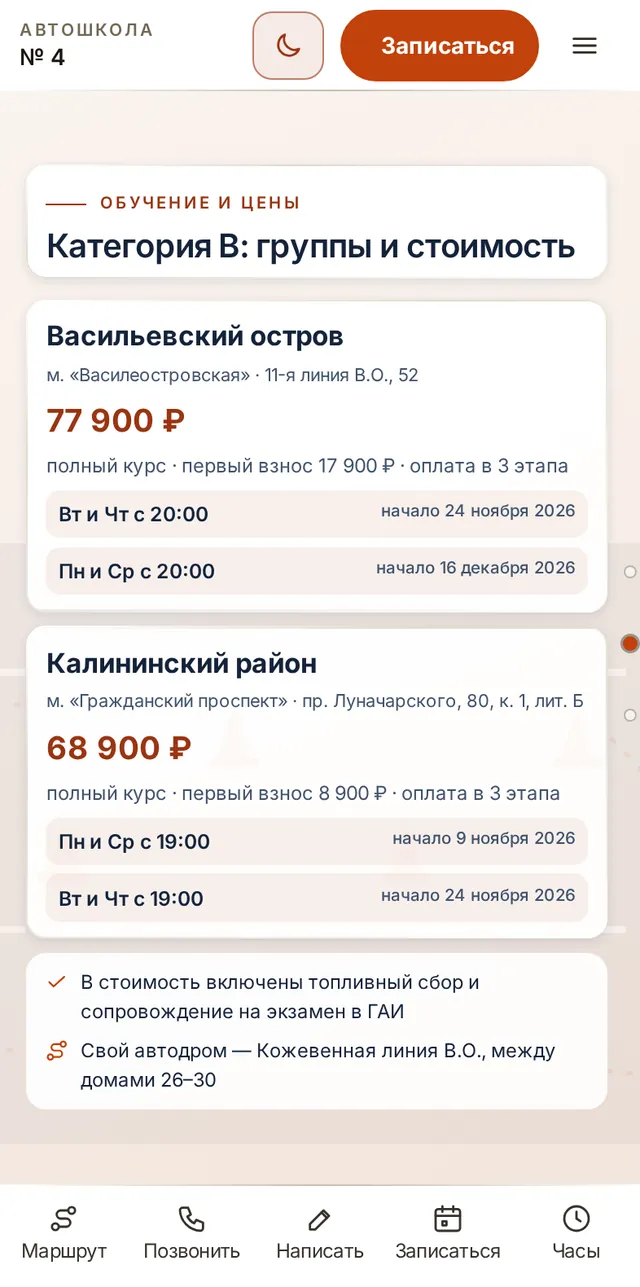
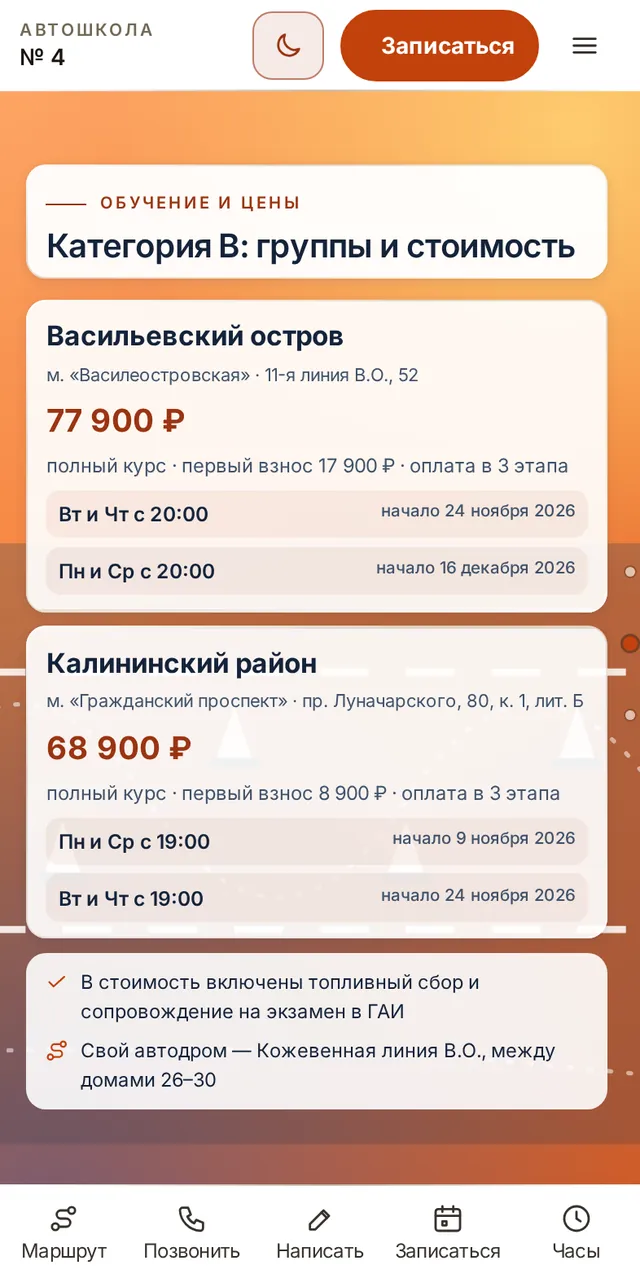
Яркий фон в фирменных цветах; версия для слабовидящих без живых фонов и анимаций; снимки витрины обновлены

Changed region(s): [[0.0, 0.0622, 1.0, 0.9324]]

diff --git a/vitrina/index.html b/vitrina/index.html
@@ -78,9 +78,9 @@ h1{text-wrap:balance;font-size:clamp(30px,3.4vw,48px);line-height:1.08;letter-sp
     </div>
   </div>
   <div class="stage" id="stage" aria-label="Новый сайт на компьютере, ноутбуке и телефоне">
-    <div class="dv mon"><div class="scr"><img src="img/monitor.webp?v=1" alt="" width="1600" height="900"></div><div class="neck"></div><div class="foot"></div></div>
-    <div class="dv lap"><div class="scr"><img src="img/laptop.webp?v=1" alt="" width="1280" height="800"></div><div class="base"></div></div>
-    <div class="dv ph" id="ph"><div class="ss-phone z-phone" data-frame="pro" style="width: 340px; height: 714.953px; padding: 2.38318px; border-radius: 61.1682px; --ps: 0.794392523364486px;"><svg class="ss-phone__bands" width="100%" height="100%" aria-hidden="true"><defs><linearGradient id="ph-band" x1="0.2" y1="0" x2="0.8" y2="1"><stop offset="0" style="stop-color: var(--ss-phone-band-1);"></stop><stop offset="0.22" style="stop-color: var(--ss-phone-band-2);"></stop><stop offset="0.48" style="stop-color: var(--ss-phone-band-3);"></stop><stop offset="0.74" style="stop-color: var(--ss-phone-band-4);"></stop><stop offset="1" style="stop-color: var(--ss-phone-band-5);"></stop></linearGradient><linearGradient id="ph-clay" x1="0" y1="0" x2="0" y2="1"><stop offset="0" style="stop-color: var(--ss-phone-clay-top);"></stop><stop offset="1" style="stop-color: var(--ss-phone-clay-bottom);"></stop></linearGradient></defs><g transform="translate(10.327102803738317 10.327102803738317)" stroke-linejoin="round"><path d="M262.94 0.00L267.09 0.06L270.49 0.24L273.65 0.53L276.65 0.94L279.51 1.47L282.27 2.11L284.93 2.87L287.50 3.74L289.97 4.72L292.36 5.81L294.65 7.02L296.85 8.33L298.96 9.75L300.98 11.27L302.90 12.90L304.72 14.62L306.45 16.45L308.08 18.37L309.60 20.38L311.02 22.49L312.33 24.70L313.53 26.99L314.63 29.37L315.61 31.85L316.48 34.41L317.24 37.07L317.88 39.83L318.41 42.70L318.82 45.69L319.11 48.85L319.29 52.25L319.35 56.40L319.35 637.90L319.29 642.04L319.11 645.45L318.82 648.60L318.41 651.60L317.88 654.47L317.24 657.23L316.48 659.89L315.61 662.45L314.63 664.92L313.53 667.31L312.33 669.60L311.02 671.80L309.60 673.91L308.08 675.93L306.45 677.85L304.72 679.68L302.90 681.40L300.98 683.03L298.96 684.55L296.85 685.97L294.65 687.28L292.36 688.49L289.97 689.58L287.50 690.56L284.93 691.43L282.27 692.19L279.51 692.83L276.65 693.36L273.65 693.77L270.49 694.06L267.09 694.24L262.94 694.30L56.40 694.30L52.25 694.24L48.85 694.06L45.69 693.77L42.70 693.36L39.83 692.83L37.07 692.19L34.41 691.43L31.85 690.56L29.37 689.58L26.99 688.49L24.70 687.28L22.49 685.97L20.38 684.55L18.37 683.03L16.45 681.40L14.62 679.68L12.90 677.85L11.27 675.93L9.75 673.91L8.33 671.80L7.02 669.60L5.81 667.31L4.72 664.92L3.74 662.45L2.87 659.89L2.11 657.23L1.47 654.47L0.94 651.60L0.53 648.60L0.24 645.45L0.06 642.04L0.00 637.90L0.00 56.40L0.06 52.25L0.24 48.85L0.53 45.69L0.94 42.70L1.47 39.83L2.11 37.07L2.87 34.41L3.74 31.85L4.72 29.37L5.81 26.99L7.02 24.70L8.33 22.49L9.75 20.38L11.27 18.37L12.90 16.45L14.62 14.62L16.45 12.90L18.37 11.27L20.38 9.75L22.49 8.33L24.70 7.02L26.99 5.81L29.37 4.72L31.85 3.74L34.41 2.87L37.07 2.11L39.83 1.47L42.70 0.94L45.69 0.53L48.85 0.24L52.25 0.06L56.40 0.00Z" fill="none" stroke-width="20.654205607476634" stroke="url(#ph-band)"></path><path d="M262.94 0.00L267.09 0.06L270.49 0.24L273.65 0.53L276.65 0.94L279.51 1.47L282.27 2.11L284.93 2.87L287.50 3.74L289.97 4.72L292.36 5.81L294.65 7.02L296.85 8.33L298.96 9.75L300.98 11.27L302.90 12.90L304.72 14.62L306.45 16.45L308.08 18.37L309.60 20.38L311.02 22.49L312.33 24.70L313.53 26.99L314.63 29.37L315.61 31.85L316.48 34.41L317.24 37.07L317.88 39.83L318.41 42.70L318.82 45.69L319.11 48.85L319.29 52.25L319.35 56.40L319.35 637.90L319.29 642.04L319.11 645.45L318.82 648.60L318.41 651.60L317.88 654.47L317.24 657.23L316.48 659.89L315.61 662.45L314.63 664.92L313.53 667.31L312.33 669.60L311.02 671.80L309.60 673.91L308.08 675.93L306.45 677.85L304.72 679.68L302.90 681.40L300.98 683.03L298.96 684.55L296.85 685.97L294.65 687.28L292.36 688.49L289.97 689.58L287.50 690.56L284.93 691.43L282.27 692.19L279.51 692.83L276.65 693.36L273.65 693.77L270.49 694.06L267.09 694.24L262.94 694.30L56.40 694.30L52.25 694.24L48.85 694.06L45.69 693.77L42.70 693.36L39.83 692.83L37.07 692.19L34.41 691.43L31.85 690.56L29.37 689.58L26.99 688.49L24.70 687.28L22.49 685.97L20.38 684.55L18.37 683.03L16.45 681.40L14.62 679.68L12.90 677.85L11.27 675.93L9.75 673.91L8.33 671.80L7.02 669.60L5.81 667.31L4.72 664.92L3.74 662.45L2.87 659.89L2.11 657.23L1.47 654.47L0.94 651.60L0.53 648.60L0.24 645.45L0.06 642.04L0.00 637.90L0.00 56.40L0.06 52.25L0.24 48.85L0.53 45.69L0.94 42.70L1.47 39.83L2.11 37.07L2.87 34.41L3.74 31.85L4.72 29.37L5.81 26.99L7.02 24.70L8.33 22.49L9.75 20.38L11.27 18.37L12.90 16.45L14.62 14.62L16.45 12.90L18.37 11.27L20.38 9.75L22.49 8.33L24.70 7.02L26.99 5.81L29.37 4.72L31.85 3.74L34.41 2.87L37.07 2.11L39.83 1.47L42.70 0.94L45.69 0.53L48.85 0.24L52.25 0.06L56.40 0.00Z" fill="none" stroke-width="15.88785046728972" style="stroke: var(--ss-phone-rim);"></path><path d="M262.94 0.00L267.09 0.06L270.49 0.24L273.65 0.53L276.65 0.94L279.51 1.47L282.27 2.11L284.93 2.87L287.50 3.74L289.97 4.72L292.36 5.81L294.65 7.02L296.85 8.33L298.96 9.75L300.98 11.27L302.90 12.90L304.72 14.62L306.45 16.45L308.08 18.37L309.60 20.38L311.02 22.49L312.33 24.70L313.53 26.99L314.63 29.37L315.61 31.85L316.48 34.41L317.24 37.07L317.88 39.83L318.41 42.70L318.82 45.69L319.11 48.85L319.29 52.25L319.35 56.40L319.35 637.90L319.29 642.04L319.11 645.45L318.82 648.60L318.41 651.60L317.88 654.47L317.24 657.23L316.48 659.89L315.61 662.45L314.63 664.92L313.53 667.31L312.33 669.60L311.02 671.80L309.60 673.91L308.08 675.93L306.45 677.85L304.72 679.68L302.90 681.40L300.98 683.03L298.96 684.55L296.85 685.97L294.65 687.28L292.36 688.49L289.97 689.58L287.50 690.56L284.93 691.43L282.27 692.19L279.51 692.83L276.65 693.36L273.65 693.77L270.49 694.06L267.09 694.24L262.94 694.30L56.40 694.30L52.25 694.24L48.85 694.06L45.69 693.77L42.70 693.36L39.83 692.83L37.07 692.19L34.41 691.43L31.85 690.56L29.37 689.58L26.99 688.49L24.70 687.28L22.49 685.97L20.38 684.55L18.37 683.03L16.45 681.40L14.62 679.68L12.90 677.85L11.27 675.93L9.75 673.91L8.33 671.80L7.02 669.60L5.81 667.31L4.72 664.92L3.74 662.45L2.87 659.89L2.11 657.23L1.47 654.47L0.94 651.60L0.53 648.60L0.24 645.45L0.06 642.04L0.00 637.90L0.00 56.40L0.06 52.25L0.24 48.85L0.53 45.69L0.94 42.70L1.47 39.83L2.11 37.07L2.87 34.41L3.74 31.85L4.72 29.37L5.81 26.99L7.02 24.70L8.33 22.49L9.75 20.38L11.27 18.37L12.90 16.45L14.62 14.62L16.45 12.90L18.37 11.27L20.38 9.75L22.49 8.33L24.70 7.02L26.99 5.81L29.37 4.72L31.85 3.74L34.41 2.87L37.07 2.11L39.83 1.47L42.70 0.94L45.69 0.53L48.85 0.24L52.25 0.06L56.40 0.00Z" fill="none" stroke-width="14.69626168224299" style="stroke: var(--ss-phone-glass);"></path></g></svg><div class="ss-phone__glass" style="padding: 7.94393px; border-radius: 58.785px;"><div class="ss-phone__window" style="width: 319.346px; height: 694.299px; clip-path: path(&quot;M 262.94 0 L 267.09 0.06 L 270.49 0.24 L 273.65 0.53 L 276.65 0.94 L 279.51 1.47 L 282.27 2.11 L 284.93 2.87 L 287.5 3.74 L 289.97 4.72 L 292.36 5.81 L 294.65 7.02 L 296.85 8.33 L 298.96 9.75 L 300.98 11.27 L 302.9 12.9 L 304.72 14.62 L 306.45 16.45 L 308.08 18.37 L 309.6 20.38 L 311.02 22.49 L 312.33 24.7 L 313.53 26.99 L 314.63 29.37 L 315.61 31.85 L 316.48 34.41 L 317.24 37.07 L 317.88 39.83 L 318.41 42.7 L 318.82 45.69 L 319.11 48.85 L 319.29 52.25 L 319.35 56.4 L 319.35 637.9 L 319.29 642.04 L 319.11 645.45 L 318.82 648.6 L 318.41 651.6 L 317.88 654.47 L 317.24 657.23 L 316.48 659.89 L 315.61 662.45 L 314.63 664.92 L 313.53 667.31 L 312.33 669.6 L 311.02 671.8 L 309.6 673.91 L 308.08 675.93 L 306.45 677.85 L 304.72 679.68 L 302.9 681.4 L 300.98 683.03 L 298.96 684.55 L 296.85 685.97 L 294.65 687.28 L 292.36 688.49 L 289.97 689.58 L 287.5 690.56 L 284.93 691.43 L 282.27 692.19 L 279.51 692.83 L 276.65 693.36 L 273.65 693.77 L 270.49 694.06 L 267.09 694.24 L 262.94 694.3 L 56.4 694.3 L 52.25 694.24 L 48.85 694.06 L 45.69 693.77 L 42.7 693.36 L 39.83 692.83 L 37.07 692.19 L 34.41 691.43 L 31.85 690.56 L 29.37 689.58 L 26.99 688.49 L 24.7 687.28 L 22.49 685.97 L 20.38 684.55 L 18.37 683.03 L 16.45 681.4 L 14.62 679.68 L 12.9 677.85 L 11.27 675.93 L 9.75 673.91 L 8.33 671.8 L 7.02 669.6 L 5.81 667.31 L 4.72 664.92 L 3.74 662.45 L 2.87 659.89 L 2.11 657.23 L 1.47 654.47 L 0.94 651.6 L 0.53 648.6 L 0.24 645.45 L 0.06 642.04 L 0 637.9 L 0 56.4 L 0.06 52.25 L 0.24 48.85 L 0.53 45.69 L 0.94 42.7 L 1.47 39.83 L 2.11 37.07 L 2.87 34.41 L 3.74 31.85 L 4.72 29.37 L 5.81 26.99 L 7.02 24.7 L 8.33 22.49 L 9.75 20.38 L 11.27 18.37 L 12.9 16.45 L 14.62 14.62 L 16.45 12.9 L 18.37 11.27 L 20.38 9.75 L 22.49 8.33 L 24.7 7.02 L 26.99 5.81 L 29.37 4.72 L 31.85 3.74 L 34.41 2.87 L 37.07 2.11 L 39.83 1.47 L 42.7 0.94 L 45.69 0.53 L 48.85 0.24 L 52.25 0.06 L 56.4 0 Z&quot;);"><div class="ss-phone__screen" style="width: 402px; height: 874px; transform: scale(0.794393); --ss-screen-r: 64px;"><div class="ss-phone__status"><span class="ss-phone__time">10:02</span><span class="ss-phone__glyphs"><svg viewBox="0 0 20.33 13.67" width="20.33" height="13.67" class="ss-phone__glyph ss-phone__signal"><rect x="0" y="7.34" width="3.333" height="6.33" rx="1.667" fill="currentColor"></rect><rect x="5.667" y="5" width="3.333" height="8.67" rx="1.667" fill="currentColor"></rect><rect x="11.334" y="2.67" width="3.333" height="11" rx="1.667" fill="currentColor"></rect><rect x="17.000999999999998" y="0" width="3.333" height="13.67" rx="1.667" fill="currentColor"></rect></svg><svg viewBox="0 0 19.33 14.33" width="19.33" height="14.33" class="ss-phone__glyph ss-phone__wifi"><path fill-rule="evenodd" fill="currentColor" d="M0.415933 5.54283C0.902185 6.04412 1.66017 5.95818 2.27513 5.41393C4.30595 3.58064 6.83731 2.63535 9.66901 2.63535C12.5007 2.63535 15.0464 3.60928 17.0629 5.41393C17.6636 5.97251 18.4215 6.0298 18.9221 5.54283C19.4226 5.02722 19.4942 4.2538 18.9793 3.70954C16.8341 1.51819 13.3302 0 9.66901 0C6.00783 0 2.48965 1.53251 0.358727 3.72387C-0.156127 4.2538 -0.0989213 5.02722 0.415933 5.55715L0.415933 5.54283ZM3.94841 9.13779C4.50617 9.68205 5.22124 9.62476 5.85051 9.10915C6.88022 8.29276 8.25316 7.73418 9.66901 7.7485C11.0706 7.7485 12.4435 8.29276 13.4875 9.12347C14.1168 9.63908 14.8605 9.66773 15.4039 9.12347C15.9331 8.57921 16.0189 7.7485 15.4611 7.23289C14.0739 5.98683 11.9859 5.11315 9.68332 5.11315C7.38077 5.11315 5.27845 5.98683 3.9055 7.23289C3.41925 7.69121 3.31914 8.47896 3.96271 9.13779L3.94841 9.13779ZM8.72511 13.8929C9.34008 14.4801 9.98365 14.4801 10.5986 13.8929L11.757 12.7757C12.372 12.1742 12.5007 11.4151 11.7999 10.8995C11.2136 10.4841 10.4699 10.212 9.66901 10.212C8.86813 10.212 8.11015 10.4841 7.53809 10.9138C6.83731 11.4151 6.98033 12.1885 7.59529 12.7757L8.73942 13.8929L8.72511 13.8929Z"></path></svg><svg viewBox="0 0 29.33 13.67" width="29.33" height="13.67" class="ss-phone__glyph ss-phone__battery"><path fill="currentColor" d="M0 6.4C0 4.15979 0 3.03969 0.435974 2.18404C0.819467 1.43139 1.43139 0.819467 2.18404 0.435974C3.03969 0 4.15979 0 6.4 0L19.933 0C22.1732 0 23.2933 0 24.149 0.435974C24.9016 0.819467 25.5135 1.43139 25.897 2.18404C26.333 3.03969 26.333 4.15979 26.333 6.4L26.333 7.26666C26.333 9.50687 26.333 10.627 25.897 11.4826C25.5135 12.2353 24.9016 12.8472 24.149 13.2307C23.2933 13.6667 22.1732 13.6667 19.933 13.6667L6.4 13.6667C4.15979 13.6667 3.03969 13.6667 2.18404 13.2307C1.43139 12.8472 0.819467 12.2353 0.435974 11.4826C0 10.627 0 9.50687 0 7.26666L0 6.4Z"></path><path fill-rule="evenodd" fill="currentColor" transform="translate(27.33 4.33)" d="M0 0L0 5C0.601505 4.8625 2 3.75 2 2.5C2 1.25 0.601505 0.1375 0 0Z"></path></svg></span></div><span class="ss-phone__island"></span><div class="ss-phone__content" data-status="true"><img class="ph-shot" src="img/phone.webp?v=1" alt="Новый сайт Автошколы № 4 на телефоне" width="393" height="790"></div><span class="ss-phone__home"></span></div></div></div></div></div>
+    <div class="dv mon"><div class="scr"><img src="img/monitor.webp?v=2" alt="" width="1600" height="900"></div><div class="neck"></div><div class="foot"></div></div>
+    <div class="dv lap"><div class="scr"><img src="img/laptop.webp?v=2" alt="" width="1280" height="800"></div><div class="base"></div></div>
+    <div class="dv ph" id="ph"><div class="ss-phone z-phone" data-frame="pro" style="width: 340px; height: 714.953px; padding: 2.38318px; border-radius: 61.1682px; --ps: 0.794392523364486px;"><svg class="ss-phone__bands" width="100%" height="100%" aria-hidden="true"><defs><linearGradient id="ph-band" x1="0.2" y1="0" x2="0.8" y2="1"><stop offset="0" style="stop-color: var(--ss-phone-band-1);"></stop><stop offset="0.22" style="stop-color: var(--ss-phone-band-2);"></stop><stop offset="0.48" style="stop-color: var(--ss-phone-band-3);"></stop><stop offset="0.74" style="stop-color: var(--ss-phone-band-4);"></stop><stop offset="1" style="stop-color: var(--ss-phone-band-5);"></stop></linearGradient><linearGradient id="ph-clay" x1="0" y1="0" x2="0" y2="1"><stop offset="0" style="stop-color: var(--ss-phone-clay-top);"></stop><stop offset="1" style="stop-color: var(--ss-phone-clay-bottom);"></stop></linearGradient></defs><g transform="translate(10.327102803738317 10.327102803738317)" stroke-linejoin="round"><path d="M262.94 0.00L267.09 0.06L270.49 0.24L273.65 0.53L276.65 0.94L279.51 1.47L282.27 2.11L284.93 2.87L287.50 3.74L289.97 4.72L292.36 5.81L294.65 7.02L296.85 8.33L298.96 9.75L300.98 11.27L302.90 12.90L304.72 14.62L306.45 16.45L308.08 18.37L309.60 20.38L311.02 22.49L312.33 24.70L313.53 26.99L314.63 29.37L315.61 31.85L316.48 34.41L317.24 37.07L317.88 39.83L318.41 42.70L318.82 45.69L319.11 48.85L319.29 52.25L319.35 56.40L319.35 637.90L319.29 642.04L319.11 645.45L318.82 648.60L318.41 651.60L317.88 654.47L317.24 657.23L316.48 659.89L315.61 662.45L314.63 664.92L313.53 667.31L312.33 669.60L311.02 671.80L309.60 673.91L308.08 675.93L306.45 677.85L304.72 679.68L302.90 681.40L300.98 683.03L298.96 684.55L296.85 685.97L294.65 687.28L292.36 688.49L289.97 689.58L287.50 690.56L284.93 691.43L282.27 692.19L279.51 692.83L276.65 693.36L273.65 693.77L270.49 694.06L267.09 694.24L262.94 694.30L56.40 694.30L52.25 694.24L48.85 694.06L45.69 693.77L42.70 693.36L39.83 692.83L37.07 692.19L34.41 691.43L31.85 690.56L29.37 689.58L26.99 688.49L24.70 687.28L22.49 685.97L20.38 684.55L18.37 683.03L16.45 681.40L14.62 679.68L12.90 677.85L11.27 675.93L9.75 673.91L8.33 671.80L7.02 669.60L5.81 667.31L4.72 664.92L3.74 662.45L2.87 659.89L2.11 657.23L1.47 654.47L0.94 651.60L0.53 648.60L0.24 645.45L0.06 642.04L0.00 637.90L0.00 56.40L0.06 52.25L0.24 48.85L0.53 45.69L0.94 42.70L1.47 39.83L2.11 37.07L2.87 34.41L3.74 31.85L4.72 29.37L5.81 26.99L7.02 24.70L8.33 22.49L9.75 20.38L11.27 18.37L12.90 16.45L14.62 14.62L16.45 12.90L18.37 11.27L20.38 9.75L22.49 8.33L24.70 7.02L26.99 5.81L29.37 4.72L31.85 3.74L34.41 2.87L37.07 2.11L39.83 1.47L42.70 0.94L45.69 0.53L48.85 0.24L52.25 0.06L56.40 0.00Z" fill="none" stroke-width="20.654205607476634" stroke="url(#ph-band)"></path><path d="M262.94 0.00L267.09 0.06L270.49 0.24L273.65 0.53L276.65 0.94L279.51 1.47L282.27 2.11L284.93 2.87L287.50 3.74L289.97 4.72L292.36 5.81L294.65 7.02L296.85 8.33L298.96 9.75L300.98 11.27L302.90 12.90L304.72 14.62L306.45 16.45L308.08 18.37L309.60 20.38L311.02 22.49L312.33 24.70L313.53 26.99L314.63 29.37L315.61 31.85L316.48 34.41L317.24 37.07L317.88 39.83L318.41 42.70L318.82 45.69L319.11 48.85L319.29 52.25L319.35 56.40L319.35 637.90L319.29 642.04L319.11 645.45L318.82 648.60L318.41 651.60L317.88 654.47L317.24 657.23L316.48 659.89L315.61 662.45L314.63 664.92L313.53 667.31L312.33 669.60L311.02 671.80L309.60 673.91L308.08 675.93L306.45 677.85L304.72 679.68L302.90 681.40L300.98 683.03L298.96 684.55L296.85 685.97L294.65 687.28L292.36 688.49L289.97 689.58L287.50 690.56L284.93 691.43L282.27 692.19L279.51 692.83L276.65 693.36L273.65 693.77L270.49 694.06L267.09 694.24L262.94 694.30L56.40 694.30L52.25 694.24L48.85 694.06L45.69 693.77L42.70 693.36L39.83 692.83L37.07 692.19L34.41 691.43L31.85 690.56L29.37 689.58L26.99 688.49L24.70 687.28L22.49 685.97L20.38 684.55L18.37 683.03L16.45 681.40L14.62 679.68L12.90 677.85L11.27 675.93L9.75 673.91L8.33 671.80L7.02 669.60L5.81 667.31L4.72 664.92L3.74 662.45L2.87 659.89L2.11 657.23L1.47 654.47L0.94 651.60L0.53 648.60L0.24 645.45L0.06 642.04L0.00 637.90L0.00 56.40L0.06 52.25L0.24 48.85L0.53 45.69L0.94 42.70L1.47 39.83L2.11 37.07L2.87 34.41L3.74 31.85L4.72 29.37L5.81 26.99L7.02 24.70L8.33 22.49L9.75 20.38L11.27 18.37L12.90 16.45L14.62 14.62L16.45 12.90L18.37 11.27L20.38 9.75L22.49 8.33L24.70 7.02L26.99 5.81L29.37 4.72L31.85 3.74L34.41 2.87L37.07 2.11L39.83 1.47L42.70 0.94L45.69 0.53L48.85 0.24L52.25 0.06L56.40 0.00Z" fill="none" stroke-width="15.88785046728972" style="stroke: var(--ss-phone-rim);"></path><path d="M262.94 0.00L267.09 0.06L270.49 0.24L273.65 0.53L276.65 0.94L279.51 1.47L282.27 2.11L284.93 2.87L287.50 3.74L289.97 4.72L292.36 5.81L294.65 7.02L296.85 8.33L298.96 9.75L300.98 11.27L302.90 12.90L304.72 14.62L306.45 16.45L308.08 18.37L309.60 20.38L311.02 22.49L312.33 24.70L313.53 26.99L314.63 29.37L315.61 31.85L316.48 34.41L317.24 37.07L317.88 39.83L318.41 42.70L318.82 45.69L319.11 48.85L319.29 52.25L319.35 56.40L319.35 637.90L319.29 642.04L319.11 645.45L318.82 648.60L318.41 651.60L317.88 654.47L317.24 657.23L316.48 659.89L315.61 662.45L314.63 664.92L313.53 667.31L312.33 669.60L311.02 671.80L309.60 673.91L308.08 675.93L306.45 677.85L304.72 679.68L302.90 681.40L300.98 683.03L298.96 684.55L296.85 685.97L294.65 687.28L292.36 688.49L289.97 689.58L287.50 690.56L284.93 691.43L282.27 692.19L279.51 692.83L276.65 693.36L273.65 693.77L270.49 694.06L267.09 694.24L262.94 694.30L56.40 694.30L52.25 694.24L48.85 694.06L45.69 693.77L42.70 693.36L39.83 692.83L37.07 692.19L34.41 691.43L31.85 690.56L29.37 689.58L26.99 688.49L24.70 687.28L22.49 685.97L20.38 684.55L18.37 683.03L16.45 681.40L14.62 679.68L12.90 677.85L11.27 675.93L9.75 673.91L8.33 671.80L7.02 669.60L5.81 667.31L4.72 664.92L3.74 662.45L2.87 659.89L2.11 657.23L1.47 654.47L0.94 651.60L0.53 648.60L0.24 645.45L0.06 642.04L0.00 637.90L0.00 56.40L0.06 52.25L0.24 48.85L0.53 45.69L0.94 42.70L1.47 39.83L2.11 37.07L2.87 34.41L3.74 31.85L4.72 29.37L5.81 26.99L7.02 24.70L8.33 22.49L9.75 20.38L11.27 18.37L12.90 16.45L14.62 14.62L16.45 12.90L18.37 11.27L20.38 9.75L22.49 8.33L24.70 7.02L26.99 5.81L29.37 4.72L31.85 3.74L34.41 2.87L37.07 2.11L39.83 1.47L42.70 0.94L45.69 0.53L48.85 0.24L52.25 0.06L56.40 0.00Z" fill="none" stroke-width="14.69626168224299" style="stroke: var(--ss-phone-glass);"></path></g></svg><div class="ss-phone__glass" style="padding: 7.94393px; border-radius: 58.785px;"><div class="ss-phone__window" style="width: 319.346px; height: 694.299px; clip-path: path(&quot;M 262.94 0 L 267.09 0.06 L 270.49 0.24 L 273.65 0.53 L 276.65 0.94 L 279.51 1.47 L 282.27 2.11 L 284.93 2.87 L 287.5 3.74 L 289.97 4.72 L 292.36 5.81 L 294.65 7.02 L 296.85 8.33 L 298.96 9.75 L 300.98 11.27 L 302.9 12.9 L 304.72 14.62 L 306.45 16.45 L 308.08 18.37 L 309.6 20.38 L 311.02 22.49 L 312.33 24.7 L 313.53 26.99 L 314.63 29.37 L 315.61 31.85 L 316.48 34.41 L 317.24 37.07 L 317.88 39.83 L 318.41 42.7 L 318.82 45.69 L 319.11 48.85 L 319.29 52.25 L 319.35 56.4 L 319.35 637.9 L 319.29 642.04 L 319.11 645.45 L 318.82 648.6 L 318.41 651.6 L 317.88 654.47 L 317.24 657.23 L 316.48 659.89 L 315.61 662.45 L 314.63 664.92 L 313.53 667.31 L 312.33 669.6 L 311.02 671.8 L 309.6 673.91 L 308.08 675.93 L 306.45 677.85 L 304.72 679.68 L 302.9 681.4 L 300.98 683.03 L 298.96 684.55 L 296.85 685.97 L 294.65 687.28 L 292.36 688.49 L 289.97 689.58 L 287.5 690.56 L 284.93 691.43 L 282.27 692.19 L 279.51 692.83 L 276.65 693.36 L 273.65 693.77 L 270.49 694.06 L 267.09 694.24 L 262.94 694.3 L 56.4 694.3 L 52.25 694.24 L 48.85 694.06 L 45.69 693.77 L 42.7 693.36 L 39.83 692.83 L 37.07 692.19 L 34.41 691.43 L 31.85 690.56 L 29.37 689.58 L 26.99 688.49 L 24.7 687.28 L 22.49 685.97 L 20.38 684.55 L 18.37 683.03 L 16.45 681.4 L 14.62 679.68 L 12.9 677.85 L 11.27 675.93 L 9.75 673.91 L 8.33 671.8 L 7.02 669.6 L 5.81 667.31 L 4.72 664.92 L 3.74 662.45 L 2.87 659.89 L 2.11 657.23 L 1.47 654.47 L 0.94 651.6 L 0.53 648.6 L 0.24 645.45 L 0.06 642.04 L 0 637.9 L 0 56.4 L 0.06 52.25 L 0.24 48.85 L 0.53 45.69 L 0.94 42.7 L 1.47 39.83 L 2.11 37.07 L 2.87 34.41 L 3.74 31.85 L 4.72 29.37 L 5.81 26.99 L 7.02 24.7 L 8.33 22.49 L 9.75 20.38 L 11.27 18.37 L 12.9 16.45 L 14.62 14.62 L 16.45 12.9 L 18.37 11.27 L 20.38 9.75 L 22.49 8.33 L 24.7 7.02 L 26.99 5.81 L 29.37 4.72 L 31.85 3.74 L 34.41 2.87 L 37.07 2.11 L 39.83 1.47 L 42.7 0.94 L 45.69 0.53 L 48.85 0.24 L 52.25 0.06 L 56.4 0 Z&quot;);"><div class="ss-phone__screen" style="width: 402px; height: 874px; transform: scale(0.794393); --ss-screen-r: 64px;"><div class="ss-phone__status"><span class="ss-phone__time">10:02</span><span class="ss-phone__glyphs"><svg viewBox="0 0 20.33 13.67" width="20.33" height="13.67" class="ss-phone__glyph ss-phone__signal"><rect x="0" y="7.34" width="3.333" height="6.33" rx="1.667" fill="currentColor"></rect><rect x="5.667" y="5" width="3.333" height="8.67" rx="1.667" fill="currentColor"></rect><rect x="11.334" y="2.67" width="3.333" height="11" rx="1.667" fill="currentColor"></rect><rect x="17.000999999999998" y="0" width="3.333" height="13.67" rx="1.667" fill="currentColor"></rect></svg><svg viewBox="0 0 19.33 14.33" width="19.33" height="14.33" class="ss-phone__glyph ss-phone__wifi"><path fill-rule="evenodd" fill="currentColor" d="M0.415933 5.54283C0.902185 6.04412 1.66017 5.95818 2.27513 5.41393C4.30595 3.58064 6.83731 2.63535 9.66901 2.63535C12.5007 2.63535 15.0464 3.60928 17.0629 5.41393C17.6636 5.97251 18.4215 6.0298 18.9221 5.54283C19.4226 5.02722 19.4942 4.2538 18.9793 3.70954C16.8341 1.51819 13.3302 0 9.66901 0C6.00783 0 2.48965 1.53251 0.358727 3.72387C-0.156127 4.2538 -0.0989213 5.02722 0.415933 5.55715L0.415933 5.54283ZM3.94841 9.13779C4.50617 9.68205 5.22124 9.62476 5.85051 9.10915C6.88022 8.29276 8.25316 7.73418 9.66901 7.7485C11.0706 7.7485 12.4435 8.29276 13.4875 9.12347C14.1168 9.63908 14.8605 9.66773 15.4039 9.12347C15.9331 8.57921 16.0189 7.7485 15.4611 7.23289C14.0739 5.98683 11.9859 5.11315 9.68332 5.11315C7.38077 5.11315 5.27845 5.98683 3.9055 7.23289C3.41925 7.69121 3.31914 8.47896 3.96271 9.13779L3.94841 9.13779ZM8.72511 13.8929C9.34008 14.4801 9.98365 14.4801 10.5986 13.8929L11.757 12.7757C12.372 12.1742 12.5007 11.4151 11.7999 10.8995C11.2136 10.4841 10.4699 10.212 9.66901 10.212C8.86813 10.212 8.11015 10.4841 7.53809 10.9138C6.83731 11.4151 6.98033 12.1885 7.59529 12.7757L8.73942 13.8929L8.72511 13.8929Z"></path></svg><svg viewBox="0 0 29.33 13.67" width="29.33" height="13.67" class="ss-phone__glyph ss-phone__battery"><path fill="currentColor" d="M0 6.4C0 4.15979 0 3.03969 0.435974 2.18404C0.819467 1.43139 1.43139 0.819467 2.18404 0.435974C3.03969 0 4.15979 0 6.4 0L19.933 0C22.1732 0 23.2933 0 24.149 0.435974C24.9016 0.819467 25.5135 1.43139 25.897 2.18404C26.333 3.03969 26.333 4.15979 26.333 6.4L26.333 7.26666C26.333 9.50687 26.333 10.627 25.897 11.4826C25.5135 12.2353 24.9016 12.8472 24.149 13.2307C23.2933 13.6667 22.1732 13.6667 19.933 13.6667L6.4 13.6667C4.15979 13.6667 3.03969 13.6667 2.18404 13.2307C1.43139 12.8472 0.819467 12.2353 0.435974 11.4826C0 10.627 0 9.50687 0 7.26666L0 6.4Z"></path><path fill-rule="evenodd" fill="currentColor" transform="translate(27.33 4.33)" d="M0 0L0 5C0.601505 4.8625 2 3.75 2 2.5C2 1.25 0.601505 0.1375 0 0Z"></path></svg></span></div><span class="ss-phone__island"></span><div class="ss-phone__content" data-status="true"><img class="ph-shot" src="img/phone.webp?v=2" alt="Новый сайт Автошколы № 4 на телефоне" width="393" height="790"></div><span class="ss-phone__home"></span></div></div></div></div></div>
   </div>
 </main>
 <p class="note">Сайт сделан веб-агентством «Всети» по материалам открытого сайта автошколы.</p>

diff --git a/index.html b/index.html
@@ -604,7 +604,7 @@ html[data-hc="1"] :focus-visible{outline:3px solid #ffe14d;outline-offset:2px}
 <link rel="stylesheet" href="css/etalon.css?v=20261112f">
 <link rel="stylesheet" href="css/title-b.css?v=20261112f">
 <link rel="stylesheet" href="css/nevo.css?v=20261112f">
-<link rel="stylesheet" href="css/auto4.css?v=3">
+<link rel="stylesheet" href="css/auto4.css?v=4">
 <script type="application/ld+json">{"@context": "https://schema.org", "@type": "DrivingSchool", "name": "Автошкола № 4", "alternateName": "Образовательное учреждение Автошкола № 4", "foundingDate": "1972", "telephone": ["+7 (812) 984-35-05", "+7 (812) 323-52-15", "+7 (921) 888-65-33"], "email": "auto4@mail.ru", "sameAs": ["https://vk.com/auto4"], "address": {"@type": "PostalAddress", "streetAddress": "15-я линия В.О., д. 62", "addressLocality": "Санкт-Петербург", "addressCountry": "RU"}, "geo": {"@type": "GeoCoordinates", "latitude": 59.9431023, "longitude": 30.2645562}, "openingHoursSpecification": [{"@type": "OpeningHoursSpecification", "dayOfWeek": ["Monday", "Tuesday", "Wednesday", "Thursday"], "opens": "10:00", "closes": "19:00"}, {"@type": "OpeningHoursSpecification", "dayOfWeek": "Friday", "opens": "10:00", "closes": "18:00"}], "department": [{"@type": "DrivingSchool", "name": "Автошкола № 4 — Калининский район", "telephone": "+7 (921) 888-65-33", "address": {"@type": "PostalAddress", "streetAddress": "пр. Луначарского, д. 80, к. 1, лит. Б", "addressLocality": "Санкт-Петербург", "addressCountry": "RU"}, "geo": {"@type": "GeoCoordinates", "latitude": 60.035562, "longitude": 30.3745174}, "openingHoursSpecification": [{"@type": "OpeningHoursSpecification", "dayOfWeek": ["Tuesday", "Thursday"], "opens": "11:00", "closes": "19:00"}, {"@type": "OpeningHoursSpecification", "dayOfWeek": ["Wednesday", "Friday"], "opens": "11:00", "closes": "16:30"}]}], "hasOfferCatalog": {"@type": "OfferCatalog", "name": "Обучение вождению", "itemListElement": [{"@type": "Offer", "itemOffered": {"@type": "Course", "name": "Категория B, полный курс — Васильевский остров"}, "price": "77900", "priceCurrency": "RUB"}, {"@type": "Offer", "itemOffered": {"@type": "Course", "name": "Категория B, полный курс — Калининский район"}, "price": "68900", "priceCurrency": "RUB"}]}}</script>
 </head>
 <body data-sec="0">

diff --git a/css/auto4.css b/css/auto4.css
@@ -124,3 +124,23 @@ html[data-theme="dark"] .a4-g,html[data-theme="dark"] .a4-b,html[data-theme="dar
 .a4b-deck{fill:#b4532a}
 .a4-bl .addr-link{display:inline;border-bottom:0;padding:0;margin:0;text-decoration:underline;text-decoration-color:rgba(154,52,18,.45);text-underline-offset:3px}
 @media (max-width:767px){.a4-contacts .mapbox{padding:12px 14px}}
+/* яркий фон: фирменные кирпично-оранжевый и тёмно-синий насыщеннее и контрастнее (Сергей 12.11) */
+.nk-sec .sec-bg{background:radial-gradient(circle at 90% 10%,rgba(255,214,102,.8),rgba(255,214,102,0) 36%),radial-gradient(circle at 6% 94%,rgba(30,58,138,.6),rgba(30,58,138,0) 44%),linear-gradient(150deg,#ffa057 0%,#f26a1b 45%,#c2410c 100%)}
+html[data-theme="dark"] .nk-sec .sec-bg{background:radial-gradient(circle at 90% 10%,rgba(242,106,27,.4),rgba(242,106,27,0) 40%),linear-gradient(150deg,#4a1d08 0%,#2a1a24 50%,#16213a 100%)}
+.a4-drom,.a4-bridges{opacity:.95}
+.a4d-pad{fill:rgba(30,41,59,.3)}
+.a4d-line,.a4d-park{stroke:rgba(255,255,255,.9)}
+.a4c-cone{fill:#fff4e0}.a4c-cone-b{fill:#1e3a5f}
+.a4d-path{stroke:rgba(255,255,255,.55)}
+.a4d-body{fill:#1e3a5f}
+.a4d-flagc{fill:#1e3a5f}
+.a4b-city path{fill:rgba(30,41,59,.32)}
+.a4b-water{fill:rgba(30,58,95,.5)}
+.a4b-wave{stroke:rgba(255,255,255,.7)}
+.a4b-deck{fill:#1e3a5f}
+.a4b-pier{fill:rgba(30,41,59,.45)}
+.a4b-boat{fill:#1e293b}
+html[data-theme="light"] .a4b-stars{display:none}
+/* версия для слабовидящих: без живых фонов и анимаций */
+html[data-hc="1"] .a4bg{display:none!important}
+html[data-hc="1"] *{animation:none!important;transition:none!important}
